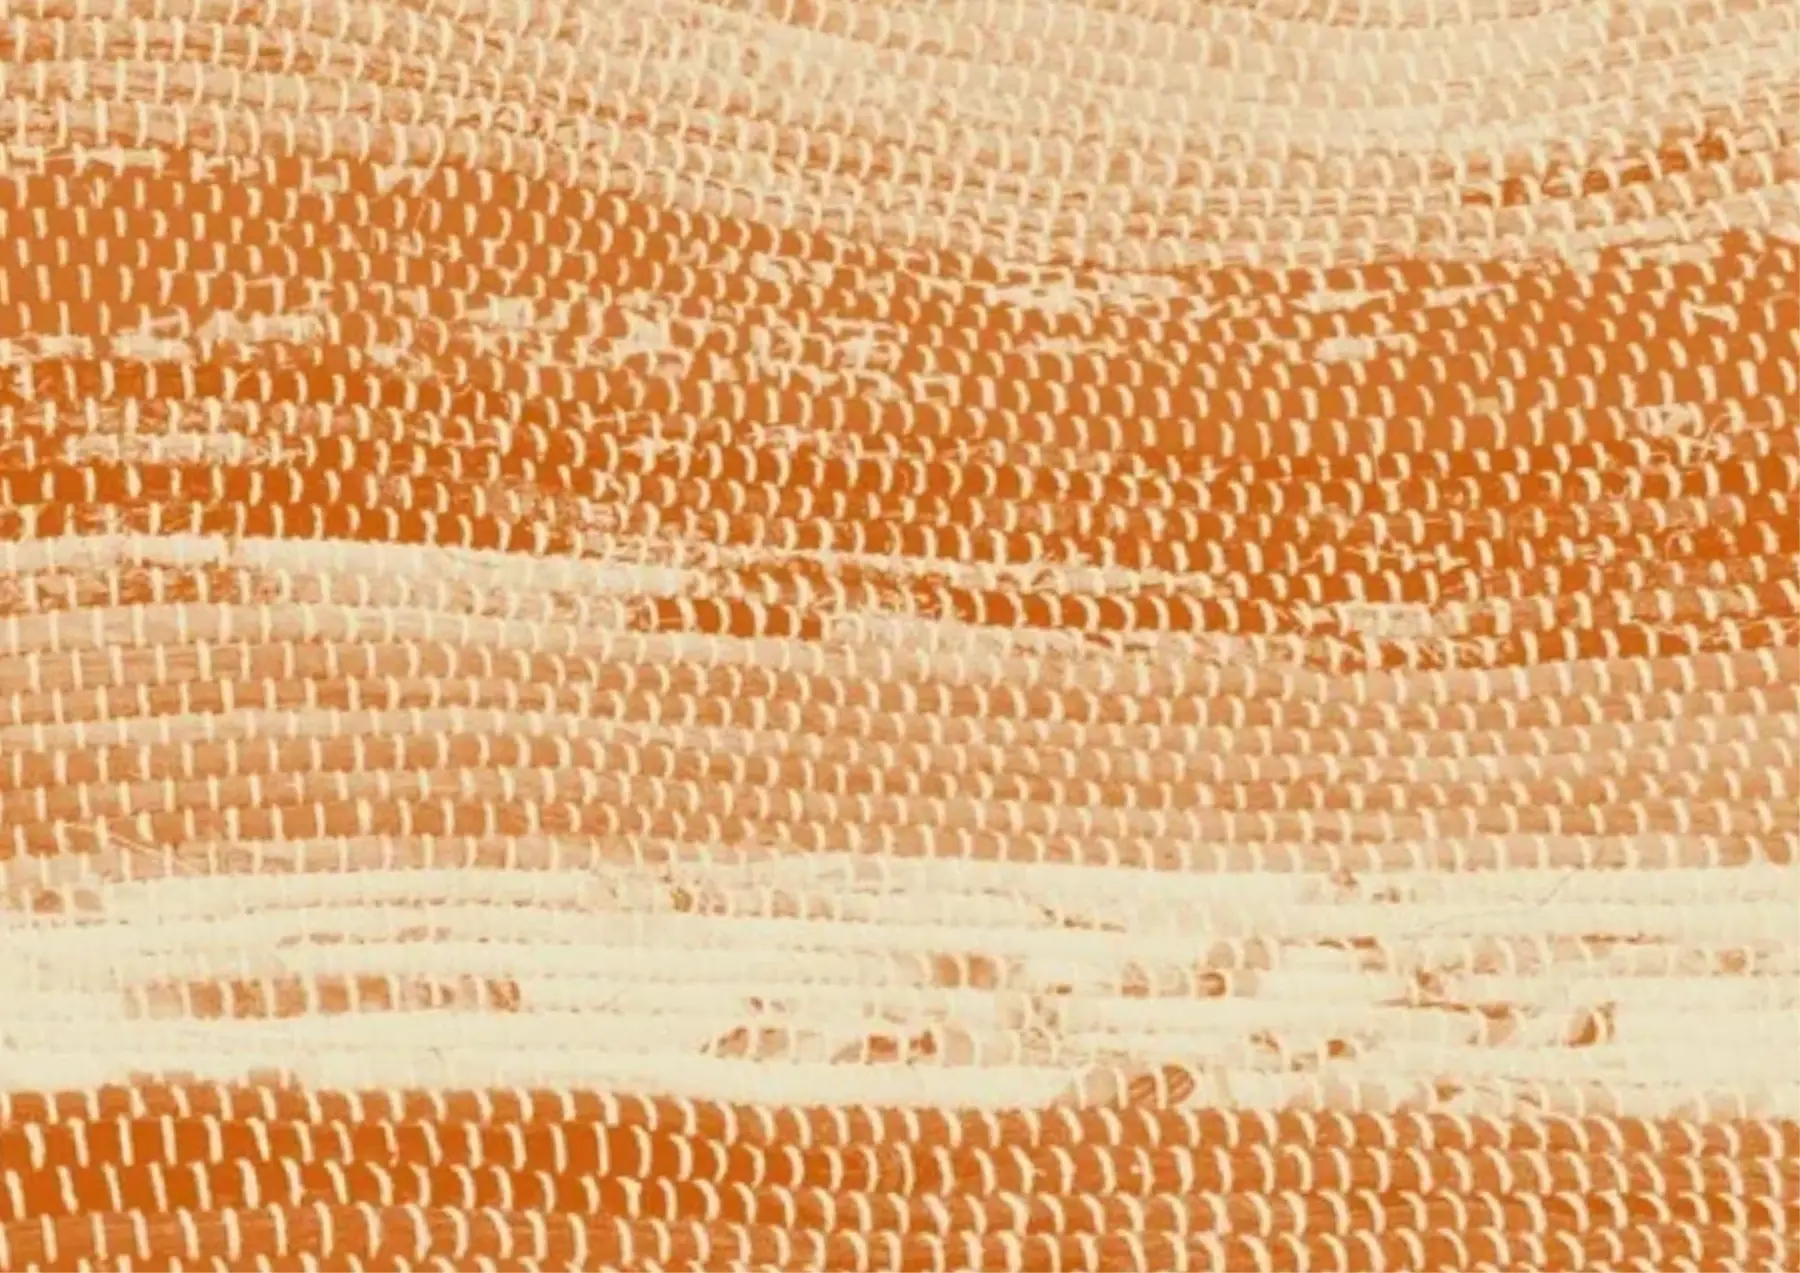
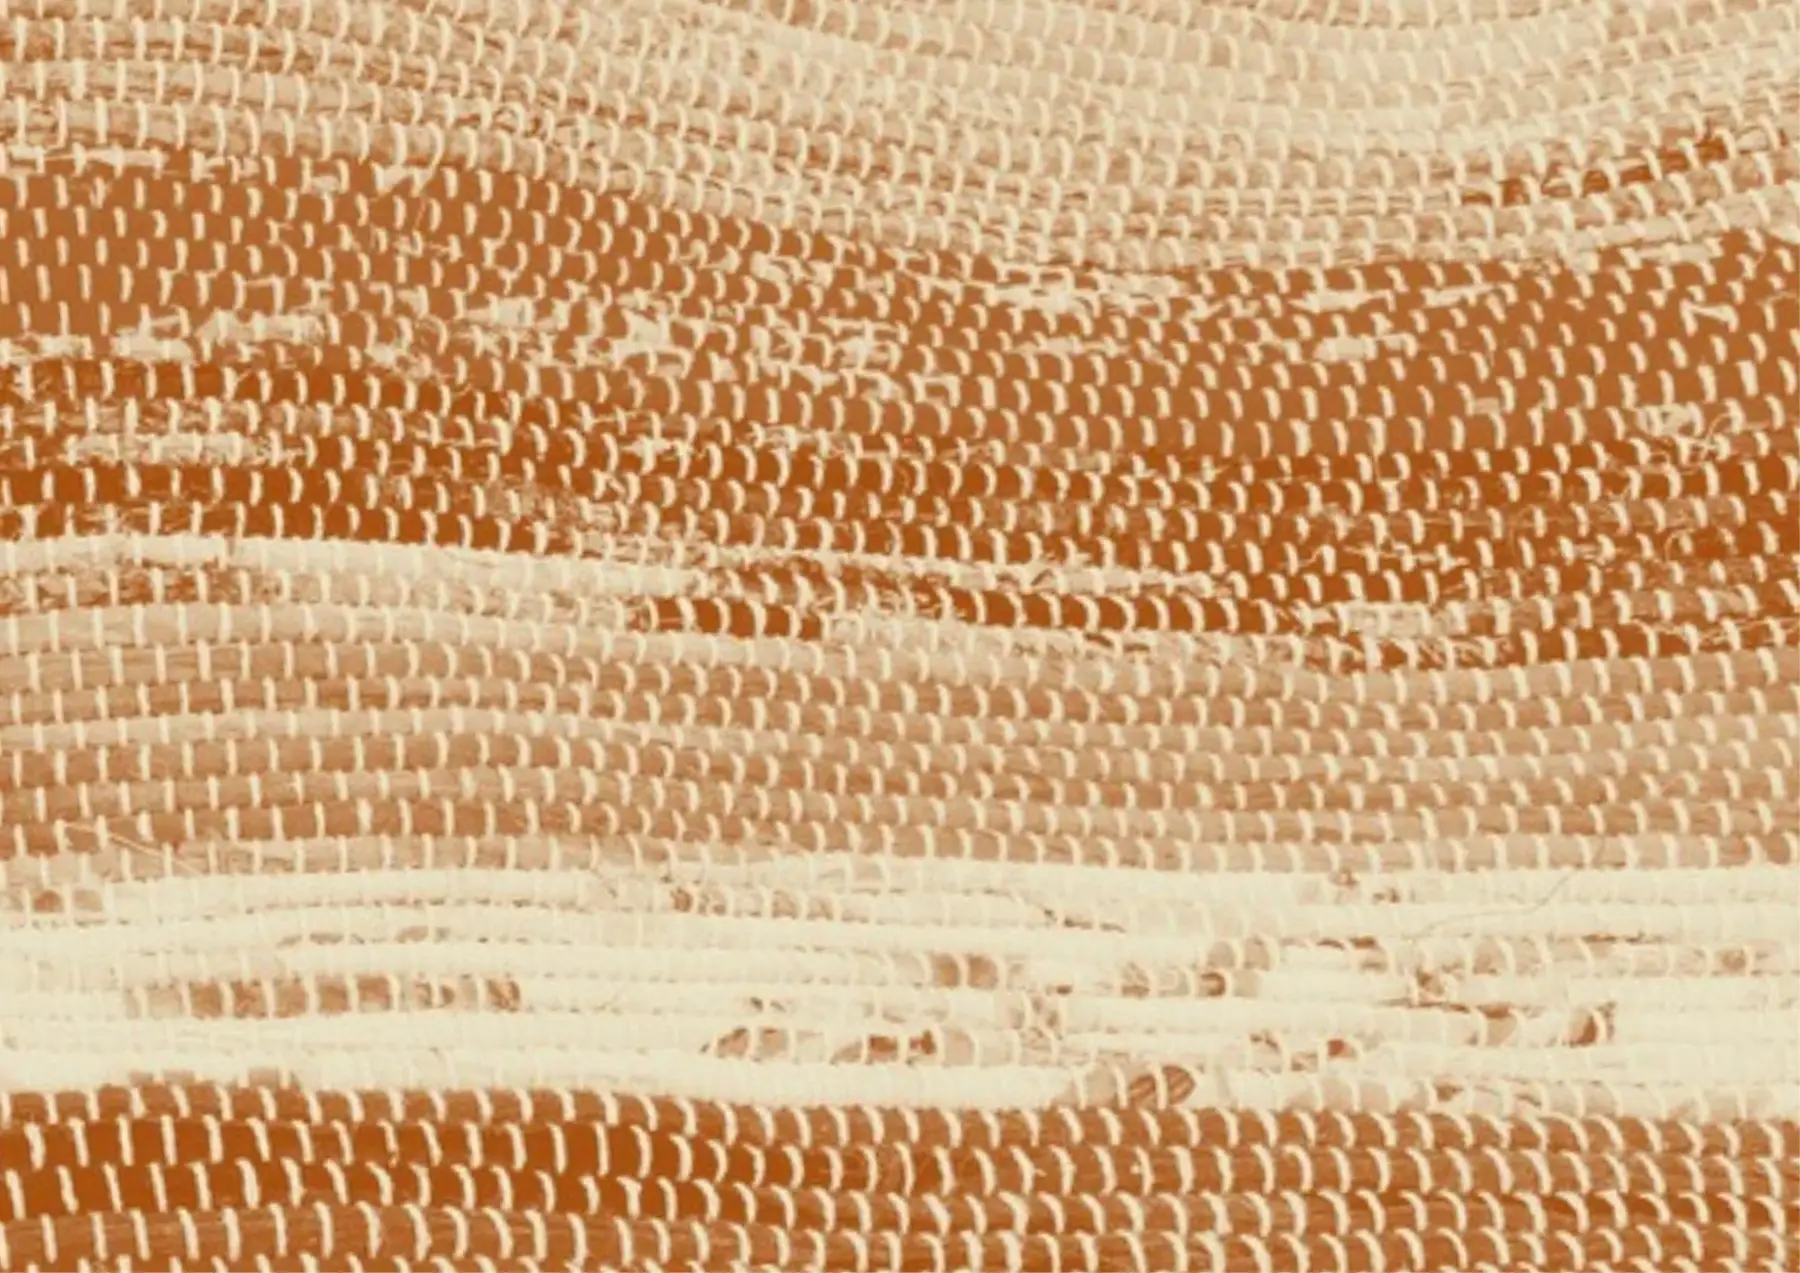
Home product section: replace the weave print with the darker-orange version
Claude-Session: https://claude.ai/code/session_0137YvMu1q67VyH6MgNnHmoE

diff --git a/assets/css/site.css b/assets/css/site.css
@@ -367,7 +367,7 @@ details.how p{margin:.6em 0 0;max-width:58ch}
 .product-stage{display:grid;grid-template-columns:repeat(12,minmax(0,1fr));column-gap:clamp(12px,1.8vw,24px);align-items:start}
 .product [data-plx]{transform:translate3d(0,calc(var(--plx,0) * 1px),0);will-change:transform}
 .product-print{position:absolute;z-index:0;left:-50vw;right:-50vw;top:44%;bottom:clamp(60px,9vw,130px);
-  background:url(/assets/media/weave-print.webp) 50% 50%/max(100vw,1400px) auto;opacity:.62;filter:saturate(1.55) contrast(1.06)}
+  background:url(/assets/media/weave-print.webp?v=2) 50% 50%/max(100vw,1400px) auto;opacity:.8;filter:saturate(1.25)}
 .product-threads{position:absolute;z-index:1;left:calc(25% - 52px);width:105px;top:clamp(60px,8vw,120px);bottom:-10px;opacity:.5;
   background:repeating-linear-gradient(90deg,var(--orange) 0 1px,transparent 1px 13px);
   -webkit-mask:linear-gradient(#0000,#000 10%,#000 90%,#0000);mask:linear-gradient(#0000,#000 10%,#000 90%,#0000)}
@@ -390,7 +390,7 @@ details.how p{margin:.6em 0 0;max-width:58ch}
 @media (max-width:820px){
   .product-stage{display:flex;flex-direction:column}
   .product-threads{display:none}
-  .product-print{top:auto;bottom:auto;height:74vw;translate:0 46vw;opacity:.58;background-size:auto 100%}
+  .product-print{top:auto;bottom:auto;height:74vw;translate:0 46vw;opacity:.75;background-size:auto 100%}
   .product-head{background:none;padding:0 0 30px;margin:0}
   .product-head .eyebrow{margin-right:calc(-1 * var(--gutter))}
   .product-photo{margin:0 calc(-1 * var(--gutter)) 0 0}

diff --git a/en/shop/index.html b/en/shop/index.html
@@ -15,7 +15,7 @@
 <meta name="theme-color" content="#CC5500">
 <link rel="icon" href="/assets/favicon.svg" type="image/svg+xml">
 <link rel="preload" href="/assets/fonts/mulish-latin-wght-normal.woff2" as="font" type="font/woff2" crossorigin>
-<link rel="stylesheet" href="/assets/css/site.css?v=2026-6">
+<link rel="stylesheet" href="/assets/css/site.css?v=2026-7">
 <script type="application/ld+json">
 {"@context": "https://schema.org", "@type": "Product", "brand": {"@type": "Brand", "name": "YOGAMATY\u2122"}, "description": "Handwoven hemp yoga mat towel/cover, 68 in \u00d7 24 in \u00d7 3 mm, made from natural hemp yarn and reclaimed sari textiles by independent women artisans in Nepal. Used on top of a conventional yoga mat; not a standalone yoga mat. First pilot of TransparaTrade\u2122.", "name": "YOGAMATY\u2122 \u2014 The Conscious Layer Between You and Your Yoga Mat", "offers": {"@type": "Offer", "availability": "https://schema.org/PreOrder", "priceCurrency": "USD", "seller": {"@type": "Organization", "name": "Empowerment Collective"}, "url": "https://yogamaty.com/en/shop/"}}
 </script>

diff --git a/src/templates/base.html b/src/templates/base.html
@@ -20,7 +20,7 @@
 <meta name="theme-color" content="#CC5500">
 <link rel="icon" href="/assets/favicon.svg" type="image/svg+xml">
 <link rel="preload" href="/assets/fonts/mulish-latin-wght-normal.woff2" as="font" type="font/woff2" crossorigin>
-<link rel="stylesheet" href="/assets/css/site.css?v={{ year }}-6">
+<link rel="stylesheet" href="/assets/css/site.css?v={{ year }}-7">
 {% block head %}{% endblock %}
 </head>
 <body class="motifs-pending page-{{ (page_path or 'home')|replace('/', '-') }}">

diff --git a/en/refunds-and-cancellations/index.html b/en/refunds-and-cancellations/index.html
@@ -15,7 +15,7 @@
 <meta name="theme-color" content="#CC5500">
 <link rel="icon" href="/assets/favicon.svg" type="image/svg+xml">
 <link rel="preload" href="/assets/fonts/mulish-latin-wght-normal.woff2" as="font" type="font/woff2" crossorigin>
-<link rel="stylesheet" href="/assets/css/site.css?v=2026-6">
+<link rel="stylesheet" href="/assets/css/site.css?v=2026-7">
 </head>
 <body class="motifs-pending page-refunds-and-cancellations">
 <a class="skip" href="#main">Skip to content</a>

diff --git a/en/become-a-technical-ally/index.html b/en/become-a-technical-ally/index.html
@@ -15,7 +15,7 @@
 <meta name="theme-color" content="#CC5500">
 <link rel="icon" href="/assets/favicon.svg" type="image/svg+xml">
 <link rel="preload" href="/assets/fonts/mulish-latin-wght-normal.woff2" as="font" type="font/woff2" crossorigin>
-<link rel="stylesheet" href="/assets/css/site.css?v=2026-6">
+<link rel="stylesheet" href="/assets/css/site.css?v=2026-7">
 </head>
 <body class="motifs-pending page-become-a-technical-ally">
 <a class="skip" href="#main">Skip to content</a>

diff --git a/en/end-modern-slavery-now/index.html b/en/end-modern-slavery-now/index.html
@@ -15,7 +15,7 @@
 <meta name="theme-color" content="#CC5500">
 <link rel="icon" href="/assets/favicon.svg" type="image/svg+xml">
 <link rel="preload" href="/assets/fonts/mulish-latin-wght-normal.woff2" as="font" type="font/woff2" crossorigin>
-<link rel="stylesheet" href="/assets/css/site.css?v=2026-6">
+<link rel="stylesheet" href="/assets/css/site.css?v=2026-7">
 </head>
 <body class="motifs-pending page-end-modern-slavery-now">
 <a class="skip" href="#main">Skip to content</a>

diff --git a/en/shipping-and-delivery/index.html b/en/shipping-and-delivery/index.html
@@ -15,7 +15,7 @@
 <meta name="theme-color" content="#CC5500">
 <link rel="icon" href="/assets/favicon.svg" type="image/svg+xml">
 <link rel="preload" href="/assets/fonts/mulish-latin-wght-normal.woff2" as="font" type="font/woff2" crossorigin>
-<link rel="stylesheet" href="/assets/css/site.css?v=2026-6">
+<link rel="stylesheet" href="/assets/css/site.css?v=2026-7">
 </head>
 <body class="motifs-pending page-shipping-and-delivery">
 <a class="skip" href="#main">Skip to content</a>

diff --git a/en/privacy-and-terms/index.html b/en/privacy-and-terms/index.html
@@ -15,7 +15,7 @@
 <meta name="theme-color" content="#CC5500">
 <link rel="icon" href="/assets/favicon.svg" type="image/svg+xml">
 <link rel="preload" href="/assets/fonts/mulish-latin-wght-normal.woff2" as="font" type="font/woff2" crossorigin>
-<link rel="stylesheet" href="/assets/css/site.css?v=2026-6">
+<link rel="stylesheet" href="/assets/css/site.css?v=2026-7">
 </head>
 <body class="motifs-pending page-privacy-and-terms">
 <a class="skip" href="#main">Skip to content</a>

diff --git a/en/track-your-order/index.html b/en/track-your-order/index.html
@@ -15,7 +15,7 @@
 <meta name="theme-color" content="#CC5500">
 <link rel="icon" href="/assets/favicon.svg" type="image/svg+xml">
 <link rel="preload" href="/assets/fonts/mulish-latin-wght-normal.woff2" as="font" type="font/woff2" crossorigin>
-<link rel="stylesheet" href="/assets/css/site.css?v=2026-6">
+<link rel="stylesheet" href="/assets/css/site.css?v=2026-7">
 </head>
 <body class="motifs-pending page-track-your-order">
 <a class="skip" href="#main">Skip to content</a>

diff --git a/en/shop/thank-you/index.html b/en/shop/thank-you/index.html
@@ -15,7 +15,7 @@
 <meta name="theme-color" content="#CC5500">
 <link rel="icon" href="/assets/favicon.svg" type="image/svg+xml">
 <link rel="preload" href="/assets/fonts/mulish-latin-wght-normal.woff2" as="font" type="font/woff2" crossorigin>
-<link rel="stylesheet" href="/assets/css/site.css?v=2026-6">
+<link rel="stylesheet" href="/assets/css/site.css?v=2026-7">
 </head>
 <body class="motifs-pending page-shop-thank-you">
 <a class="skip" href="#main">Skip to content</a>

diff --git a/en/shop/wholesale/index.html b/en/shop/wholesale/index.html
@@ -15,7 +15,7 @@
 <meta name="theme-color" content="#CC5500">
 <link rel="icon" href="/assets/favicon.svg" type="image/svg+xml">
 <link rel="preload" href="/assets/fonts/mulish-latin-wght-normal.woff2" as="font" type="font/woff2" crossorigin>
-<link rel="stylesheet" href="/assets/css/site.css?v=2026-6">
+<link rel="stylesheet" href="/assets/css/site.css?v=2026-7">
 </head>
 <body class="motifs-pending page-shop-wholesale">
 <a class="skip" href="#main">Skip to content</a>

diff --git a/en/transparatrade/index.html b/en/transparatrade/index.html
@@ -15,7 +15,7 @@
 <meta name="theme-color" content="#CC5500">
 <link rel="icon" href="/assets/favicon.svg" type="image/svg+xml">
 <link rel="preload" href="/assets/fonts/mulish-latin-wght-normal.woff2" as="font" type="font/woff2" crossorigin>
-<link rel="stylesheet" href="/assets/css/site.css?v=2026-6">
+<link rel="stylesheet" href="/assets/css/site.css?v=2026-7">
 </head>
 <body class="motifs-pending page-transparatrade">
 <a class="skip" href="#main">Skip to content</a>
